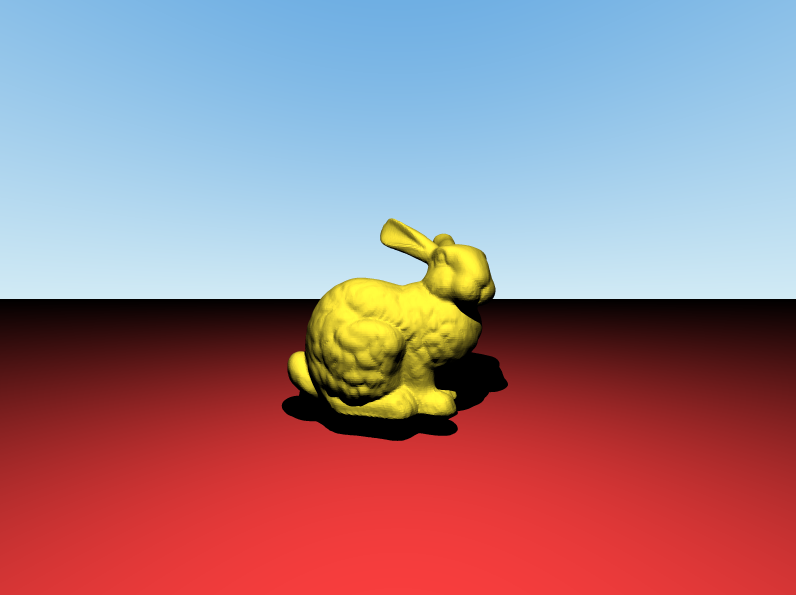
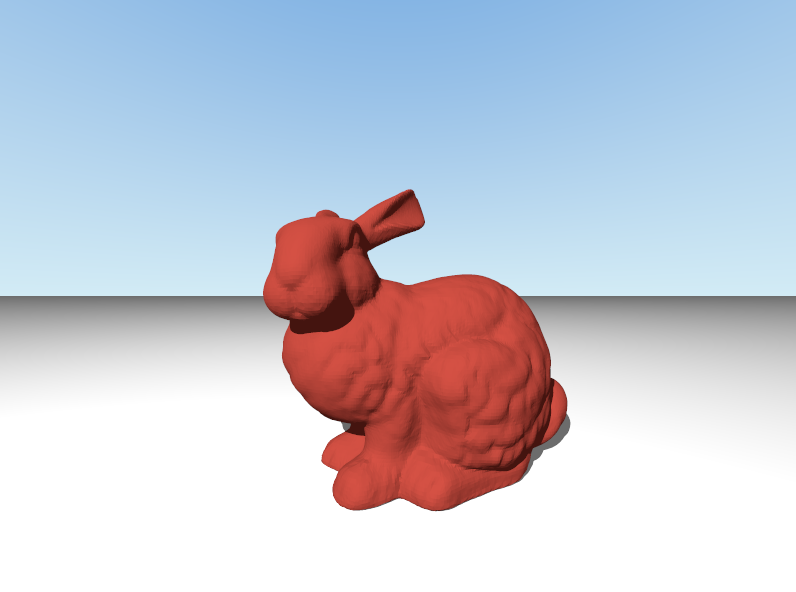
docs: update README benchmarks and showcase renders

diff --git a/README.md b/README.md
@@ -5,25 +5,30 @@ A CPU-based 3D ray tracing engine built from scratch in C++, featuring geometric
 The project explores the fundamentals of 3D rendering, geometric intersection algorithms, spatial acceleration structures, and performance optimization.
 
 ## Showcase
+
 ![Ray Tracing Engine — Stanford Bunny](images/stanford-bunny.png)
+
 ![Ray Tracing Engine — Reflections](images/reflections.png)
 
 ## Features
 
 ### Rendering
+
 - **Ray tracing:** Casts rays through the scene to calculate pixel colors.
 - **Camera:** Perspective camera with configurable position, orientation, field of view, and aspect ratio.
 - **Geometric primitives:** Sphere, plane, triangle, and axis-aligned bounding box.
 - **Triangle meshes:** Supports rendering complex 3D models composed of triangles.
-- **OBJ loading:** Loads triangle mesh geometry from Wavefront OBJ files.
+- **OBJ loading:** Loads triangle mesh geometry from Wavefront OBJ files, including vertex normals and texture coordinates.
 - **Object transformations:** Supports translation, rotation, and scaling using transformation matrices.
-- **Lighting:** Point lights with direct Lambertian diffuse shading.
+- **Lighting:** Point lights with direct Lambertian diffuse shading and ambient lighting.
 - **Shadows:** Hard shadows calculated using shadow rays.
 - **Reflections:** Supports reflective ray tracing.
 - **Background:** Gradient background shading.
 - **Supersampling:** Supports multiple samples per pixel to improve image quality.
+- **Color pipeline:** Uses linear RGB internally and converts to sRGB for final output.
 
 ### Performance
+
 - **Bounding Volume Hierarchy (BVH):** Accelerates mesh intersection queries using a recursively constructed, median-split hierarchy of axis-aligned bounding boxes.
 - **Performance instrumentation:** Tracks render time, rays traced, shadow rays, triangle intersection tests, and rendering throughput.
 - **Benchmarking:** Measures the impact of BVH acceleration against brute-force triangle intersection testing.
@@ -34,9 +39,15 @@ The project explores the fundamentals of 3D rendering, geometric intersection al
 
 ### BVH acceleration: Before vs. After
 
-The following benchmark uses the same scene and rendering settings with brute-force mesh intersection testing and BVH-accelerated intersection testing.
+The following benchmark compares brute-force mesh intersection testing with BVH-accelerated intersection testing using the same scene and rendering settings.
 
 **Test configuration**
+
+- Build configuration: Release
+- CPU: Intel Core i7-12700F (12 cores, 20 logical processors)
+- Compiler: MSVC 19.38.33135
+- Build system: CMake + Visual Studio 2022 (MSBuild)
+- Target architecture: x64
 - Resolution: 800 × 600
 - Sampling: 16 samples per pixel (4 × 4 grid)
 - Scene: Suzanne mesh containing 968 triangles and a plane
@@ -44,25 +55,27 @@ The following benchmark uses the same scene and rendering settings with brute-fo
 
 | Metric | Before BVH | After BVH |
 |---|---:|---:|
-| Render time | 426.053 s | 13.533 s |
+| Render time | 199.992 s | 1.974 s |
 | Pixels rendered | 480,000 | 480,000 |
 | Primary rays | 7,680,000 | 7,680,000 |
-| Rays traced | 12,029,500 | 12,029,500 |
-| Shadow rays | 4,371,233 | 4,371,233 |
-| Triangle intersection tests | 15,875,909,544 | 26,775,562 |
-| Pixels per second | 1,126.62 | 35,469 |
-| Rays per second | 28,234.8 | 888,904 |
-| Triangle tests per primary ray | 2,067.18 | 3.4864 |
+| Rays traced | 7,680,000 | 7,680,000 |
+| Shadow rays | 4,641,906 | 4,641,906 |
+| Triangle intersection tests | 11,927,605,008 | 75,125,291 |
+| Pixels per second | 2,400.1 | 243,133 |
+| Rays per second | 38,401.6 | 3,890,130 |
+| Triangle tests per primary ray | 1,553.07 | 9.78194 |
 
 ### Results
 
-- **31.48× faster rendering** on the benchmark scene.
-- **96.82% reduction** in render time.
-- **99.83% fewer triangle intersection tests.**
+- **101.30× faster rendering** on the benchmark scene.
+- **99.01% reduction** in render time.
+- **99.37% fewer triangle intersection tests.**
 
 The original implementation tested mesh triangles using brute force. With BVH acceleration, rays first test bounding boxes and only traverse relevant branches of the hierarchy. Triangle intersection tests are performed at leaf nodes rather than against every triangle in the mesh.
 
-This substantially reduces unnecessary geometric intersection calculations as mesh complexity increases.
+In this benchmark, BVH acceleration reduced triangle intersection tests from approximately 11.93 billion to 75.13 million while rendering the same number of pixels and tracing the same number of primary and shadow rays.
+
+This substantially reduces unnecessary geometric intersection calculations and makes rendering complex meshes far more practical.
 
 *Benchmark results are from the recorded runs and may vary with hardware, compiler settings, and system load.*
 
@@ -160,7 +173,6 @@ Key areas of focus include:
 - Lighting, shadows, and reflections.
 - Recursive spatial acceleration structures.
 - Performance measurement and optimization.
-
 
 ## License
 
